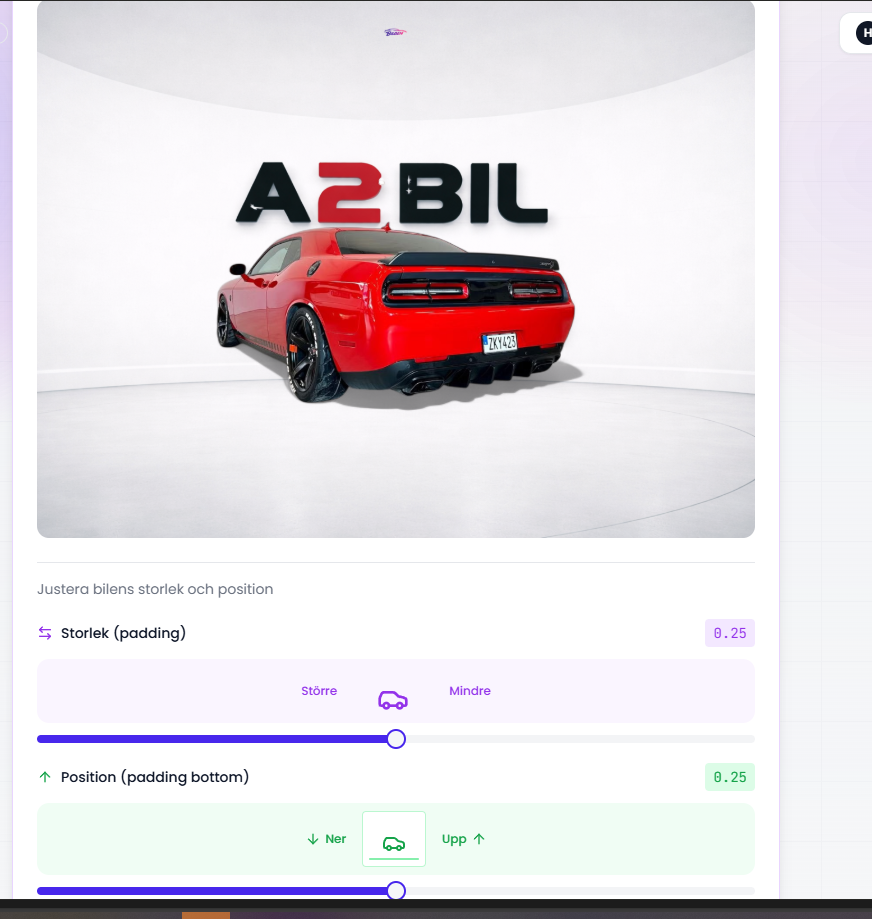
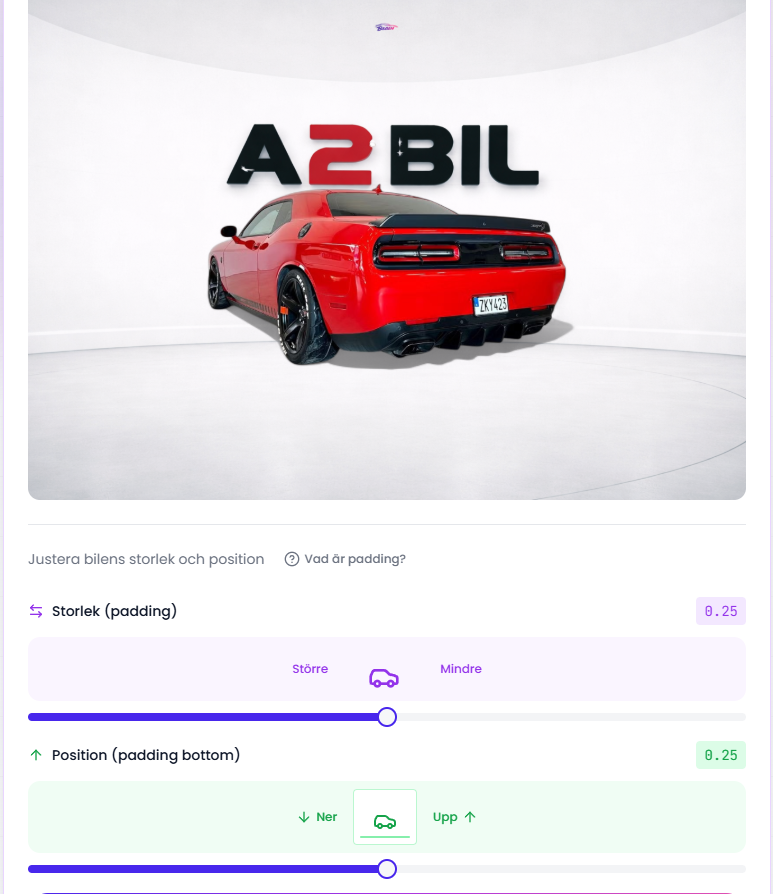
Changes

diff --git a/src/components/PaddingHelpDialog.tsx b/src/components/PaddingHelpDialog.tsx
@@ -56,17 +56,37 @@ const PaddingHelpDialog = () => {
           <div className="relative rounded-lg overflow-hidden border bg-muted/30">
             {activeTab === "before" ? (
               <div className="space-y-3">
-                <img
-                  src={paddingBefore}
-                  alt="Padding före justering"
-                  className="w-full rounded-lg"
-                />
+                <div className="relative">
+                  <img
+                    src={paddingBefore}
+                    alt="Padding före justering"
+                    className="w-full rounded-lg"
+                  />
+                  {/* Arrow overlay - Nedåt */}
+                  <div className="absolute right-4 top-1/2 -translate-y-1/2 flex flex-col items-center gap-1 animate-pulse">
+                    <div className="bg-red-500/90 text-white text-xs font-medium px-2 py-1 rounded shadow-lg">
+                      Måste ner
+                    </div>
+                    <svg className="w-8 h-12 text-red-500 drop-shadow-lg" viewBox="0 0 24 36" fill="currentColor">
+                      <path d="M12 0 L12 28 M4 20 L12 32 L20 20" stroke="currentColor" strokeWidth="3" fill="none" strokeLinecap="round" strokeLinejoin="round"/>
+                    </svg>
+                  </div>
+                  {/* Arrow overlay - Större */}
+                  <div className="absolute bottom-4 left-1/2 -translate-x-1/2 flex flex-col items-center gap-1 animate-pulse" style={{ animationDelay: '0.5s' }}>
+                    <svg className="w-16 h-8 text-green-500 drop-shadow-lg" viewBox="0 0 48 24" fill="currentColor">
+                      <path d="M8 12 L0 12 M40 12 L48 12 M8 6 L0 12 L8 18 M40 6 L48 12 L40 18" stroke="currentColor" strokeWidth="3" fill="none" strokeLinecap="round" strokeLinejoin="round"/>
+                    </svg>
+                    <div className="bg-green-500/90 text-white text-xs font-medium px-2 py-1 rounded shadow-lg">
+                      Måste bli större
+                    </div>
+                  </div>
+                </div>
                 <div className="p-4 bg-muted/50 rounded-b-lg">
                   <p className="text-sm font-medium text-foreground">
                     Padding: 0.25 & 0.25
                   </p>
                   <p className="text-sm text-muted-foreground mt-1">
-                    Bilen är centrerad i mitten utan någon justering.
+                    Bilen är för högt upp och för liten - behöver justeras!
                   </p>
                 </div>
               </div>
